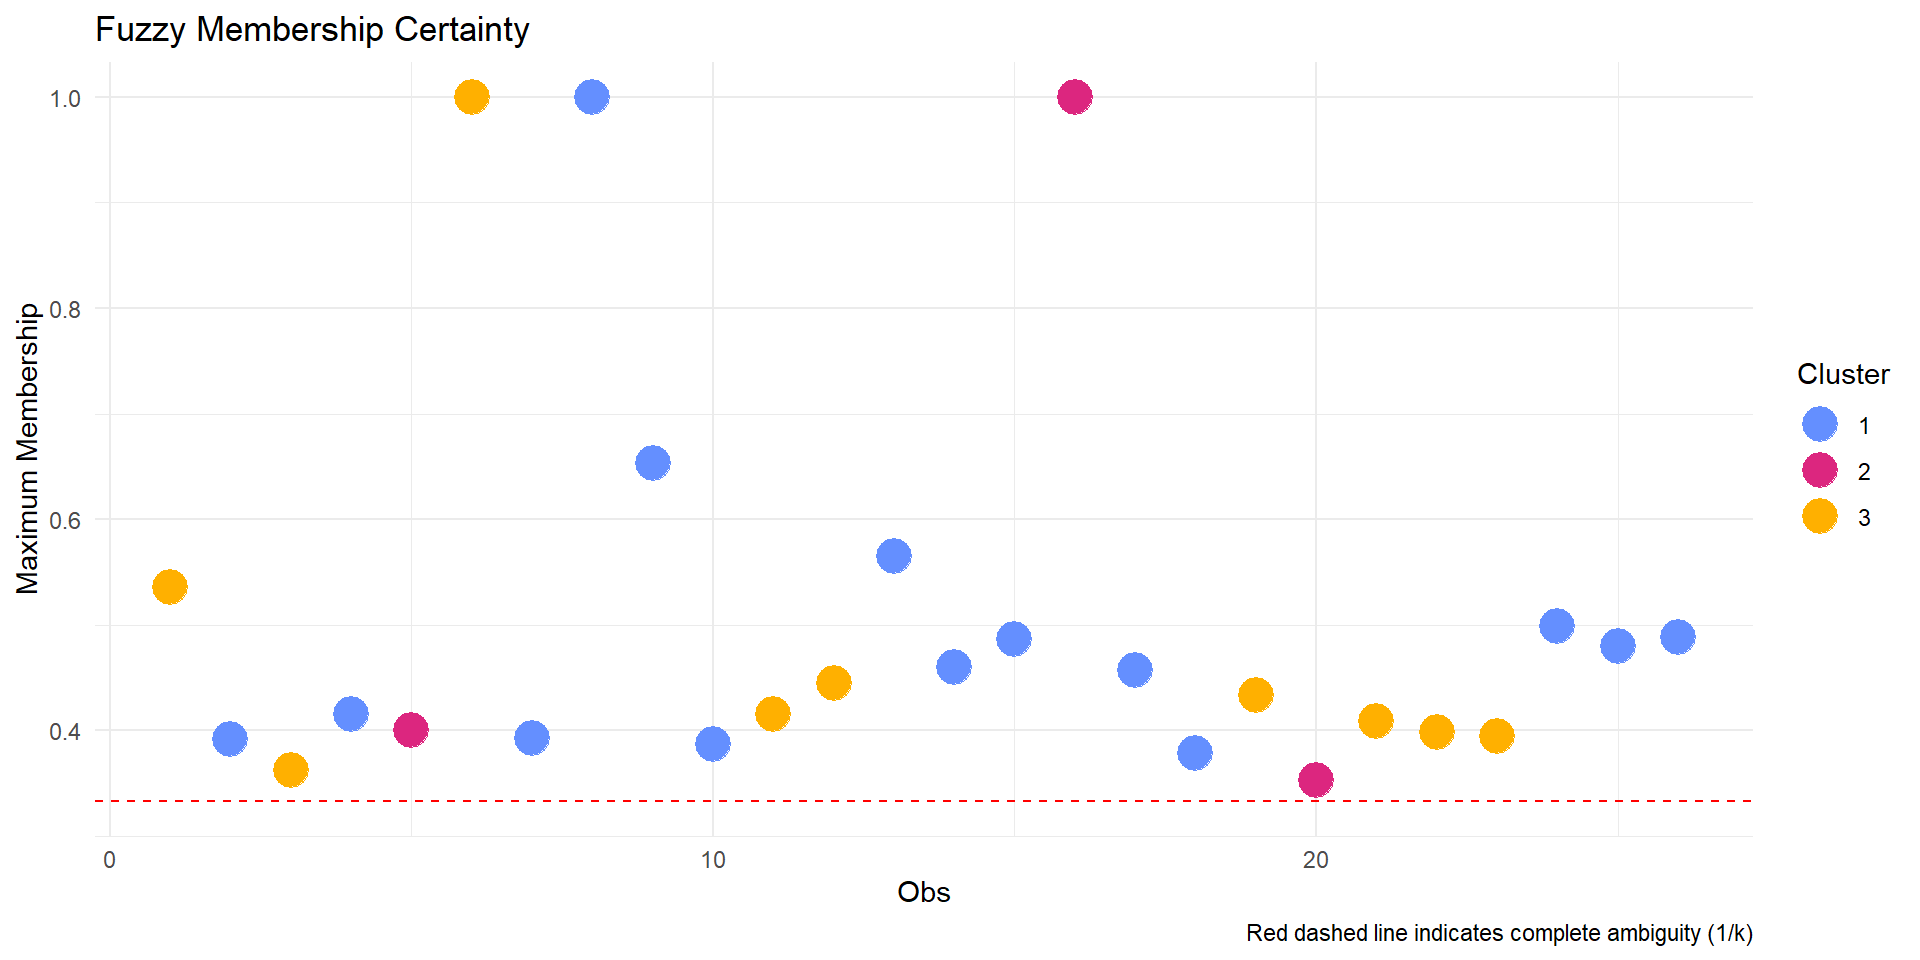
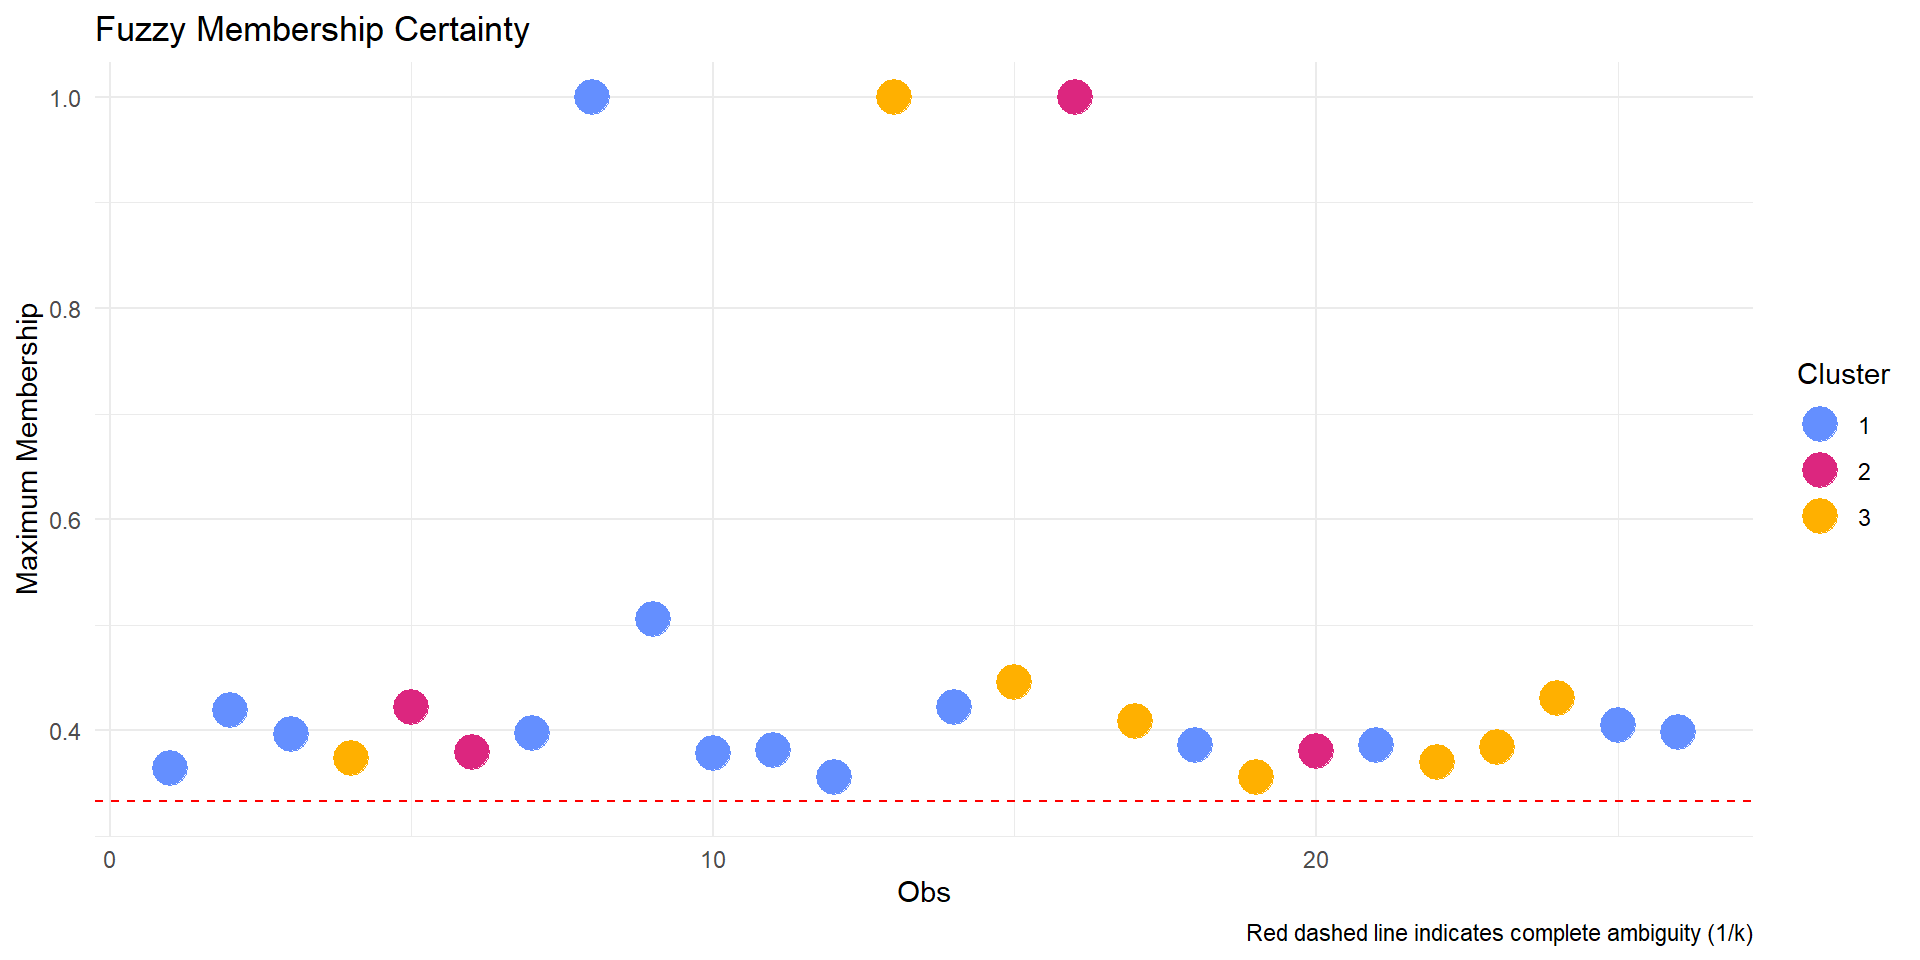
working on the presentation

diff --git a/Text/Reports/Presentation.html b/Text/Reports/Presentation.html
@@ -1502,7 +1502,7 @@ Gaia Smith and Alice Thompson
 <section id="perfroming-log-transformations" class="slide level2">
 <h2>2.3 Perfroming Log Transformations</h2>
 
-<img data-src="https://raw.githubusercontent.com/luke8471/STAT394-GROUP-3/main/Figures/notchboxnorm.png" class="r-stretch quarto-figure-center"><p class="caption">Notchboxnorm</p></section>
+<img data-src="https://raw.githubusercontent.com/luke8471/STAT394-GROUP-3/main/Figures/notchboxnorm.png" class="r-stretch"></section>
 <section id="henze-zirkler-test-for-multivariate-normality" class="slide level2">
 <h2>2.4 Henze-Zirkler Test For Multivariate Normality</h2>
 <div class="center">
@@ -1856,11 +1856,21 @@ Gaia Smith and Alice Thompson
 <h2>3.2 Cluster Analysis using Manhattan Distance</h2>
 
 <img data-src="https://raw.githubusercontent.com/luke8471/STAT394-GROUP-3/main/Figures/dendrogram.png" class="r-stretch"></section>
+<section id="cluster-analysis-using-manhattan-distance-1" class="slide level2">
+<h2>3.2 Cluster Analysis using Manhattan Distance</h2>
+
+<img data-src="Presentation_files/figure-revealjs/UMAP-1.png" width="960" class="r-stretch"></section>
+<section id="cluster-analysis-using-manhattan-distance-2" class="slide level2">
+<h2>3.2 Cluster Analysis using Manhattan Distance</h2>
+
+<img data-src="Presentation_files/figure-revealjs/UMAP2-1.png" width="960" class="r-stretch"></section>
 <section id="fuzzy-analysis" class="slide level2">
 <h2>3.3 Fuzzy Analysis</h2>
+<div class="columns">
+<div class="column" style="width:50%;">
 <div class="cell">
 <div class="cell-output-display">
-<table class="table caption-top" style="font-size: 12px; margin-left: auto; margin-right: auto;">
+<table class="table caption-top" style="font-size: 20px; margin-left: auto; margin-right: auto;">
 <caption>Fuzzy K Silhouettes Clusterings</caption>
 <thead>
 <tr class="header">
@@ -1873,45 +1883,45 @@ Gaia Smith and Alice Thompson
 <tbody>
 <tr class="odd">
 <td style="text-align: left;">2</td>
-<td style="text-align: right;">0.2469359</td>
-<td style="text-align: right;">0.2173493</td>
-<td style="text-align: right;">0.5357149</td>
+<td style="text-align: right;">0.3808610</td>
+<td style="text-align: right;">0.3352282</td>
+<td style="text-align: right;">0.2839108</td>
 </tr>
 <tr class="even">
 <td style="text-align: left;">3</td>
-<td style="text-align: right;">0.3917575</td>
-<td style="text-align: right;">0.2921529</td>
-<td style="text-align: right;">0.3160897</td>
+<td style="text-align: right;">0.3994904</td>
+<td style="text-align: right;">0.2979197</td>
+<td style="text-align: right;">0.3025900</td>
 </tr>
 <tr class="odd">
 <td style="text-align: left;">5</td>
-<td style="text-align: right;">0.3385264</td>
-<td style="text-align: right;">0.2986884</td>
-<td style="text-align: right;">0.3627852</td>
+<td style="text-align: right;">0.3951292</td>
+<td style="text-align: right;">0.3486303</td>
+<td style="text-align: right;">0.2562405</td>
 </tr>
 <tr class="even">
 <td style="text-align: left;">6</td>
-<td style="text-align: right;">0.4156300</td>
-<td style="text-align: right;">0.3151064</td>
-<td style="text-align: right;">0.2692637</td>
+<td style="text-align: right;">0.3964214</td>
+<td style="text-align: right;">0.3005436</td>
+<td style="text-align: right;">0.3030350</td>
 </tr>
 <tr class="odd">
 <td style="text-align: left;">8</td>
-<td style="text-align: right;">0.3537473</td>
-<td style="text-align: right;">0.4003357</td>
-<td style="text-align: right;">0.2459171</td>
+<td style="text-align: right;">0.3548860</td>
+<td style="text-align: right;">0.4016243</td>
+<td style="text-align: right;">0.2434897</td>
 </tr>
 <tr class="even">
 <td style="text-align: left;">9</td>
-<td style="text-align: right;">0.0000000</td>
-<td style="text-align: right;">0.0000000</td>
-<td style="text-align: right;">1.0000000</td>
+<td style="text-align: right;">0.3448716</td>
+<td style="text-align: right;">0.3954432</td>
+<td style="text-align: right;">0.2596851</td>
 </tr>
 <tr class="odd">
 <td style="text-align: left;">10</td>
-<td style="text-align: right;">0.3923412</td>
-<td style="text-align: right;">0.3374243</td>
-<td style="text-align: right;">0.2702346</td>
+<td style="text-align: right;">0.3987019</td>
+<td style="text-align: right;">0.3428947</td>
+<td style="text-align: right;">0.2584034</td>
 </tr>
 <tr class="even">
 <td style="text-align: left;">11</td>
@@ -1921,111 +1931,33 @@ Gaia Smith and Alice Thompson
 </tr>
 <tr class="odd">
 <td style="text-align: left;">12</td>
-<td style="text-align: right;">0.6533863</td>
-<td style="text-align: right;">0.2371499</td>
-<td style="text-align: right;">0.1094637</td>
+<td style="text-align: right;">0.4590163</td>
+<td style="text-align: right;">0.1666023</td>
+<td style="text-align: right;">0.3743813</td>
 </tr>
 <tr class="even">
 <td style="text-align: left;">15</td>
-<td style="text-align: right;">0.3874154</td>
-<td style="text-align: right;">0.2726694</td>
-<td style="text-align: right;">0.3399153</td>
+<td style="text-align: right;">0.4064680</td>
+<td style="text-align: right;">0.2860789</td>
+<td style="text-align: right;">0.3074530</td>
 </tr>
 <tr class="odd">
 <td style="text-align: left;">16</td>
-<td style="text-align: right;">0.3063496</td>
-<td style="text-align: right;">0.2780320</td>
-<td style="text-align: right;">0.4156184</td>
+<td style="text-align: right;">0.3951507</td>
+<td style="text-align: right;">0.3586247</td>
+<td style="text-align: right;">0.2462246</td>
 </tr>
 <tr class="even">
 <td style="text-align: left;">18</td>
-<td style="text-align: right;">0.2912467</td>
-<td style="text-align: right;">0.2640691</td>
-<td style="text-align: right;">0.4446842</td>
+<td style="text-align: right;">0.2977457</td>
+<td style="text-align: right;">0.2699617</td>
+<td style="text-align: right;">0.4322926</td>
 </tr>
 <tr class="odd">
 <td style="text-align: left;">20</td>
-<td style="text-align: right;">0.5649587</td>
-<td style="text-align: right;">0.3014772</td>
-<td style="text-align: right;">0.1335641</td>
-</tr>
-<tr class="even">
-<td style="text-align: left;">23</td>
-<td style="text-align: right;">0.4602814</td>
-<td style="text-align: right;">0.3910804</td>
-<td style="text-align: right;">0.1486382</td>
-</tr>
-<tr class="odd">
-<td style="text-align: left;">24</td>
-<td style="text-align: right;">0.4868243</td>
-<td style="text-align: right;">0.3654179</td>
-<td style="text-align: right;">0.1477578</td>
-</tr>
-<tr class="even">
-<td style="text-align: left;">26</td>
-<td style="text-align: right;">0.0000000</td>
-<td style="text-align: right;">1.0000000</td>
-<td style="text-align: right;">0.0000000</td>
-</tr>
-<tr class="odd">
-<td style="text-align: left;">27</td>
-<td style="text-align: right;">0.4567625</td>
-<td style="text-align: right;">0.3981832</td>
-<td style="text-align: right;">0.1450543</td>
-</tr>
-<tr class="even">
-<td style="text-align: left;">29</td>
-<td style="text-align: right;">0.3788517</td>
-<td style="text-align: right;">0.3407092</td>
-<td style="text-align: right;">0.2804392</td>
-</tr>
-<tr class="odd">
-<td style="text-align: left;">30</td>
-<td style="text-align: right;">0.2920220</td>
-<td style="text-align: right;">0.2744208</td>
-<td style="text-align: right;">0.4335572</td>
-</tr>
-<tr class="even">
-<td style="text-align: left;">31</td>
-<td style="text-align: right;">0.3107575</td>
-<td style="text-align: right;">0.3533065</td>
-<td style="text-align: right;">0.3359359</td>
-</tr>
-<tr class="odd">
-<td style="text-align: left;">32</td>
-<td style="text-align: right;">0.3298142</td>
-<td style="text-align: right;">0.2610196</td>
-<td style="text-align: right;">0.4091662</td>
-</tr>
-<tr class="even">
-<td style="text-align: left;">33</td>
-<td style="text-align: right;">0.2933524</td>
-<td style="text-align: right;">0.3085990</td>
-<td style="text-align: right;">0.3980485</td>
-</tr>
-<tr class="odd">
-<td style="text-align: left;">34</td>
-<td style="text-align: right;">0.3200385</td>
-<td style="text-align: right;">0.2849537</td>
-<td style="text-align: right;">0.3950078</td>
-</tr>
-<tr class="even">
-<td style="text-align: left;">35</td>
-<td style="text-align: right;">0.4987208</td>
-<td style="text-align: right;">0.3522715</td>
-<td style="text-align: right;">0.1490077</td>
-</tr>
-<tr class="odd">
-<td style="text-align: left;">36</td>
-<td style="text-align: right;">0.4801506</td>
-<td style="text-align: right;">0.3521509</td>
-<td style="text-align: right;">0.1676986</td>
-</tr>
-<tr class="even">
-<td style="text-align: left;">37</td>
-<td style="text-align: right;">0.4883697</td>
-<td style="text-align: right;">0.3520260</td>
-<td style="text-align: right;">0.1596043</td>
+<td style="text-align: right;">0.4236822</td>
+<td style="text-align: right;">0.2260882</td>
+<td style="text-align: right;">0.3502296</td>
 </tr>
 </tbody>
 </table>
@@ -2034,26 +1966,112 @@ Gaia Smith and Alice Thompson
 <pre><code>The default value alpha=1 has been set </code></pre>
 </div>
 </div>
+</div><div class="column" style="width:50%;">
+<div class="cell">
+<div class="cell-output-display">
+<table class="table caption-top" style="font-size: 20px; margin-left: auto; margin-right: auto;">
+<caption>Fuzzy K Silhouettes Clusterings</caption>
+<thead>
+<tr class="header">
+<th style="text-align: left;" data-quarto-table-cell-role="th"></th>
+<th style="text-align: right;" data-quarto-table-cell-role="th">Clus 1</th>
+<th style="text-align: right;" data-quarto-table-cell-role="th">Clus 2</th>
+<th style="text-align: right;" data-quarto-table-cell-role="th">Clus 3</th>
+</tr>
+</thead>
+<tbody>
+<tr class="odd">
+<td style="text-align: left;">23</td>
+<td style="text-align: right;">0.4050991</td>
+<td style="text-align: right;">0.3441944</td>
+<td style="text-align: right;">0.2507065</td>
+</tr>
+<tr class="even">
+<td style="text-align: left;">24</td>
+<td style="text-align: right;">0.3767881</td>
+<td style="text-align: right;">0.2828230</td>
+<td style="text-align: right;">0.3403890</td>
+</tr>
+<tr class="odd">
+<td style="text-align: left;">26</td>
+<td style="text-align: right;">0.0000000</td>
+<td style="text-align: right;">1.0000000</td>
+<td style="text-align: right;">0.0000000</td>
+</tr>
+<tr class="even">
+<td style="text-align: left;">27</td>
+<td style="text-align: right;">0.0000000</td>
+<td style="text-align: right;">0.0000000</td>
+<td style="text-align: right;">1.0000000</td>
+</tr>
+<tr class="odd">
+<td style="text-align: left;">29</td>
+<td style="text-align: right;">0.3759377</td>
+<td style="text-align: right;">0.3380885</td>
+<td style="text-align: right;">0.2859738</td>
+</tr>
+<tr class="even">
+<td style="text-align: left;">30</td>
+<td style="text-align: right;">0.3446866</td>
+<td style="text-align: right;">0.3239112</td>
+<td style="text-align: right;">0.3314023</td>
+</tr>
+<tr class="odd">
+<td style="text-align: left;">31</td>
+<td style="text-align: right;">0.3267719</td>
+<td style="text-align: right;">0.3715135</td>
+<td style="text-align: right;">0.3017146</td>
+</tr>
+<tr class="even">
+<td style="text-align: left;">32</td>
+<td style="text-align: right;">0.3975712</td>
+<td style="text-align: right;">0.3146435</td>
+<td style="text-align: right;">0.2877853</td>
+</tr>
+<tr class="odd">
+<td style="text-align: left;">33</td>
+<td style="text-align: right;">0.3103118</td>
+<td style="text-align: right;">0.3264398</td>
+<td style="text-align: right;">0.3632485</td>
+</tr>
+<tr class="even">
+<td style="text-align: left;">34</td>
+<td style="text-align: right;">0.3529295</td>
+<td style="text-align: right;">0.3142389</td>
+<td style="text-align: right;">0.3328316</td>
+</tr>
+<tr class="odd">
+<td style="text-align: left;">35</td>
+<td style="text-align: right;">0.3675679</td>
+<td style="text-align: right;">0.2596316</td>
+<td style="text-align: right;">0.3728005</td>
+</tr>
+<tr class="even">
+<td style="text-align: left;">36</td>
+<td style="text-align: right;">0.4021137</td>
+<td style="text-align: right;">0.2949173</td>
+<td style="text-align: right;">0.3029690</td>
+</tr>
+<tr class="odd">
+<td style="text-align: left;">37</td>
+<td style="text-align: right;">0.3269203</td>
+<td style="text-align: right;">0.2356503</td>
+<td style="text-align: right;">0.4374294</td>
+</tr>
+</tbody>
+</table>
+</div>
+</div>
+</div></div>
 </section>
 <section id="fuzzy-analysis-1" class="slide level2">
 <h2>3.3 Fuzzy Analysis</h2>
-<div class="cell">
-<div class="cell-output-display">
-<div>
-<figure>
-<p><img data-src="Presentation_files/figure-revealjs/fuz-1.png" width="960"></p>
-</figure>
-</div>
-</div>
-<div class="cell-output-display">
-<div>
-<figure>
-<p><img data-src="Presentation_files/figure-revealjs/fuz-2.png" width="960"></p>
-</figure>
-</div>
-</div>
-</div>
-</section>
+
+<img data-src="Presentation_files/figure-revealjs/fuz1-1.png" width="960" class="r-stretch"></section>
+<section id="fuzzy-analysis-2" class="slide level2">
+<h2>3.3 Fuzzy Analysis</h2>
+
+<img data-src="Presentation_files/figure-revealjs/fuz2-1.png" width="960" class="r-stretch"></section>
 <section id="results" class="slide level2">
 <h2>4. Results</h2>
 <ul>
